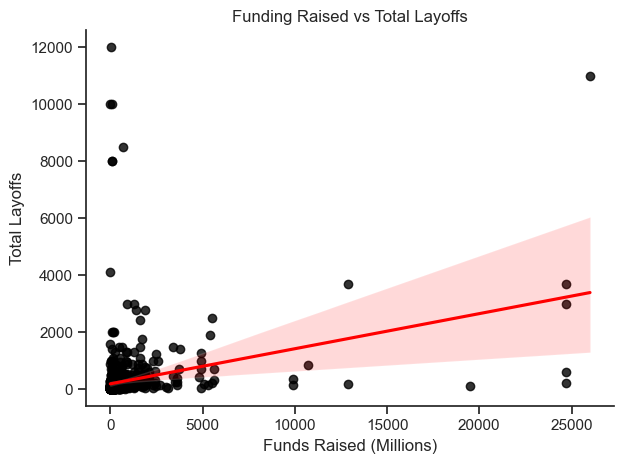
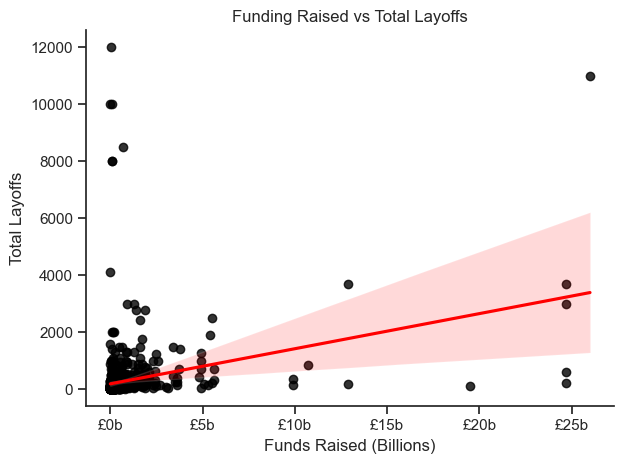
final touches all done

diff --git a/README.md b/README.md
@@ -184,6 +184,8 @@ To explore this relationship, I conducted an analysis using a scatter plot with 
 ---
 ```
 sns.regplot(x='funds_raised_millions', y='total_laid_off', data=funds_no_outliers, scatter_kws={'color': 'black'}, line_kws={'color': 'red'})
+ax = plt.gca()
+ax.xaxis.set_major_formatter(plt.FuncFormatter(lambda x, pos: f'£{int(x/1000)}b'))
 sns.despine()
 plt.title('Funding Raised vs Total Layoffs')
 plt.xlabel('Funds Raised (Millions)')
@@ -198,7 +200,20 @@ plt.show()
 
 ### Insights
 ---
-bbb
+- **Positive Correlation:** The plot shows a weak but noticeable positive correlation between the funds raised (in millions) and the total layoffs. Companies with higher funding are more likely to have larger layoffs.
+
+- **High Layoffs in Low-Funded Companies:** Many companies with funding below 5 billion still show significant layoffs, likely representing smaller businesses struggling to survive with limited resources during COVID.
+
+- **Outliers in High Funding:** A few companies with very high funding (e.g., above 20 billion) also laid off large numbers of employees. These could be large, well-funded firms restructuring to reduce costs during the pandemic.
+
+- **Confidence Band:** The red shaded region around the regression line suggests variability in the relationship. Layoffs are not strictly proportional to funding raised but are influenced by other factors like industry, company size, or stage.
+
+#### **Key Insights:**
+- **Larger Companies Lay Off More:** Well-funded companies generally have larger workforces, leading to higher layoffs during restructuring or economic downturns.
+
+- **Startup Struggles:** Small companies with limited funding still contribute significantly to layoffs, reflecting their financial vulnerabilities.
+
+- **COVID's Broad Impact:** Layoffs occurred across all funding levels, showing that both small startups and large corporations faced challenges during the pandemic.
 
 ## 4. How did the total worldwide layoffs change over time?
 
@@ -232,7 +247,22 @@ plt.show()
 
 ### Insights
 ---
-bbbbb
+- **Initial Spike (2020 Q2):** A sharp rise in layoffs occurred around April 2020, coinciding with the onset of COVID-19 lockdowns. Businesses responded quickly to economic uncertainty, leading to widespread layoffs.
+
+- **Low Activity (2020 Q3–2021 Q4):** Layoffs declined significantly after mid-2020 and remained relatively low throughout 2021, reflecting partial economic recovery and government stimulus measures.
+
+- **Resurgence (2022):** Layoffs began to rise again in early 2022, possibly due to inflation concerns, tightening economic policies, and reduced consumer demand.
+
+- **Major Spikes (2022 Q4–2023 Q1):** Two prominent spikes are visible in late 2022 and early 2023. These align with the global economic slowdown, tech industry corrections, and layoffs in overstaffed sectors following pandemic hiring booms. Some big names all contributed to such large spikes during this time, such as Google, Meta, Amazon, Microsoft, Twitter and PayPal.
+
+
+#### **Key Insights:**
+- **COVID Onset Impact:** Layoffs peaked early in the pandemic as businesses adjusted to sudden economic constraints.
+
+- **Economic Corrections:** Post-pandemic overhiring and economic challenges contributed to late-2022 and early-2023 spikes.
+
+- **Gradual Increases:** A steady rise in layoffs after 2021 suggests a mix of macroeconomic factors, such as inflation, supply chain issues, and global market uncertainties.
+
 
 ## 5. How do different countries compare with each other?
 
@@ -244,10 +274,7 @@ For this analysis, I filtered countries with more than 10 data entries to ensure
 ---
 ```
 sns.scatterplot(data=country_totals, x='total_laid_off', y='percentage_laid_off', s= 100, hue='Continent', palette=continent_colors, alpha= 0.7 )
-for i, txt in enumerate(country_totals.index):
-    plt.annotate(txt, 
-                 (country_totals['total_laid_off'].iloc[i], 
-                  country_totals['percentage_laid_off'].iloc[i]))
+for i, txt in enumerate(country_totals.index):plt.annotate(txt, (country_totals['total_laid_off'].iloc[i], country_totals['percentage_laid_off'].iloc[i]))
 sns.despine()
 plt.title('Country Job Layoff Comparison')
 plt.xlabel('Average Laid off')
@@ -264,4 +291,57 @@ plt.show()
 
 ### Insights
 ---
-bbbb
+- **Australia:** The highest average percentage of layoffs, though the average number of layoffs is relatively low. This suggests smaller companies with significant workforce reductions in response to economic pressures.
+
+- **United States:** High average layoffs with a lower percentage. This aligns with the United States large economy and workforce, where layoffs often reflect large-scale organizational adjustments.
+
+- **India:** Similar to the U.S, with high average layoffs and a 25% average layoff rate. This suggests significant impacts on large companies.
+
+- **Brazil:** 150 average layoffs with the lowest percentage laid off. Economic challenges during COVID likely contributed to these numbers.
+
+- **European Countries (UK and Germany):** Both of these countries had similar layoff averages and percentages. These countries experienced balanced impacts across industries during economic downturns.
+
+- **Canada and Israel:** The Lowest average layoff and percentages. These reflect smaller but steady economic disruptions during COVID.
+
+- **Singapore:** Slightly higher average layoffs but lower percentage, indicative of large organizations in sectors like retail and finance being affected.
+
+#### **Key Insights:**
+- **Regional Variation:** Countries with smaller economies (e.g., Australia, Brazil) saw higher layoff percentages, while larger economies (e.g., U.S., India) experienced higher average layoffs but lower percentages.
+
+- **Industry Influence:** Tech-heavy countries (e.g., United States, India, Singapore) likely drove higher layoff averages due to corrections in overhiring during the pandemic.
+
+- **Economic Scale:** Larger workforces distribute layoffs over a broader base, resulting in lower percentage impacts for economies like the U.S. and India.
+
+- **Australia's Outlier Status:** Its unique combination of high layoff percentages and low averages may reflect targeted reductions in specific, smaller sectors.
+
+# What I learned
+This was my first solo project where I put everything together myself, it was also my first time using SQL for a project, therefore I learned a lot of new knowledge and skills during this time. 
+
+- **SQL:** Using SQL for both some exploratory data analysis and data cleaning widened my scope of what I can do with the programme, as well as how I can export my new data from SQL. 
+- **Job Market Impact:** While analysing the data I was able to better understand just how easily workforces can be affected by affected by conditions that are out of our control.
+
+
+# Insights
+This project uncovered some key insights about recent worldwide layoffs:
+
+- **Industry-Specific Layoffs:** The high percentage of layoffs in Education and Healthcare highlights how even critical industries were not immune to disruptions during COVID, emphasizing structural weaknesses and shifting priorities (e.g., remote learning, telemedicine). Meanwhile, total layoffs in Transportation and Retail underline the devastating effects on industries heavily reliant on in-person activities, showcasing the economic ripple effects of lockdowns.
+
+- **Company Stage Vulnerability:** The stark layoffs in early-stage companies reflect the fragility of startups during economic downturns. These companies rely on external funding to survive, and with investors tightening budgets during the pandemic, many had no choice but to reduce staff. This underscores the high-risk nature of entrepreneurship and the challenges in sustaining growth during global crises.
+
+- **Funding vs. Layoffs:** The disconnect between high funding levels and significant layoffs illustrates that money alone doesn’t ensure stability. Many of these companies likely overexpanded during the pandemic boom (e.g., in tech sectors) and had to adjust to slower-than-expected growth. This highlights the importance of sustainable growth strategies over aggressive scaling.
+
+- **Country-Specific Patterns:** Higher layoffs in tech-heavy economies like the U.S. and India demonstrate how overhiring during the pandemic created unsustainable workforces, leading to significant corrections. In contrast, countries with smaller, more specialized economies (e.g., Australia and Brazil) saw layoffs driven by local demand changes, illustrating how the pandemic’s impact varied widely based on economic structure and industry focus.
+
+# Challenges With This Project
+This project was not without its set backs, which forced me to be adaptable with my analysis.
+
+- **Data Inconsistency:** The data that I had to work with was only around half the size of the original dataset, which had a lot of missing values which would have disrupted my analysis.
+
+- **Data Visualisation:** This project contained some basic bar plots which I was confident creating, but I challenged myself to push myself with some visualisations like the layoffs over time and country comparison graphs. I was able to create these in the way I wanted, but it was something that I had to research and teach myself on.
+
+# Conclusion
+The layoff trends during COVID-19 revealed critical vulnerabilities across industries, company stages, and countries, highlighting the wide-ranging impact of the pandemic on the global workforce. Industries like Education, Healthcare, and Transportation faced significant challenges, reflecting both structural weaknesses and shifts in demand caused by lockdowns and remote work adoption. Startups and early-stage companies were particularly fragile, with their reliance on external funding making them highly susceptible to economic uncertainty.
+
+The data also underscores the importance of sustainable growth strategies, as many well-funded companies struggled to maintain stability, leading to large-scale layoffs. Furthermore, the geographic differences in layoff patterns emphasize how the economic structure and reliance on specific industries shaped the pandemic’s impact in different regions.
+
+Ultimately, this project demonstrates the interconnectedness of global industries and economies, offering valuable lessons on resilience and adaptability for businesses and policymakers navigating future crises. By analyzing these trends, stakeholders can better prepare for potential disruptions and build more sustainable, equitable employment strategies moving forward.
